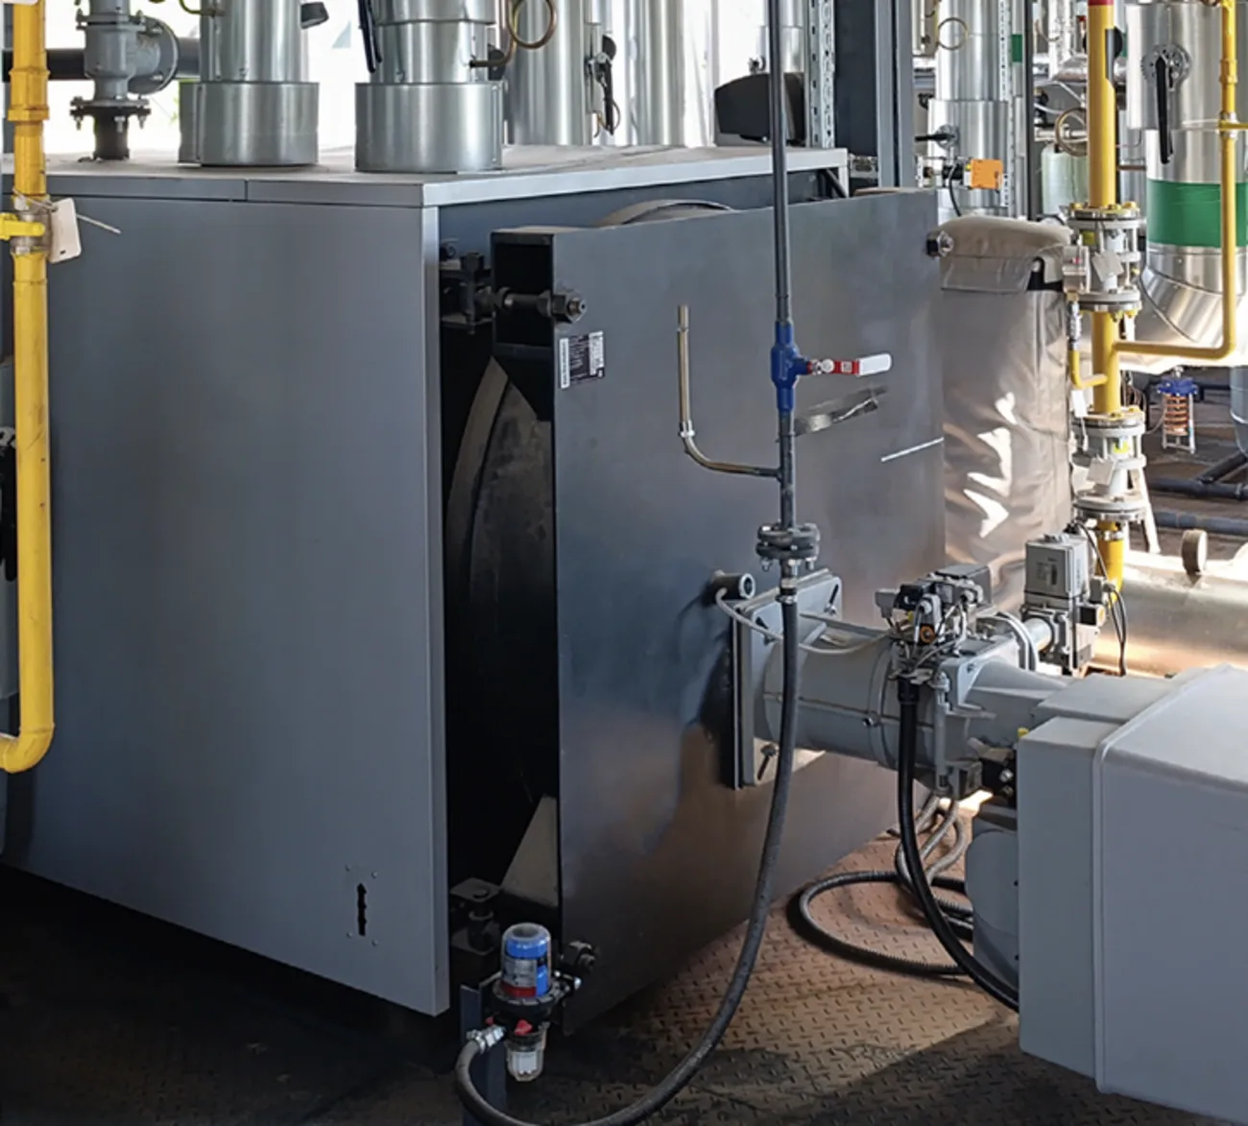
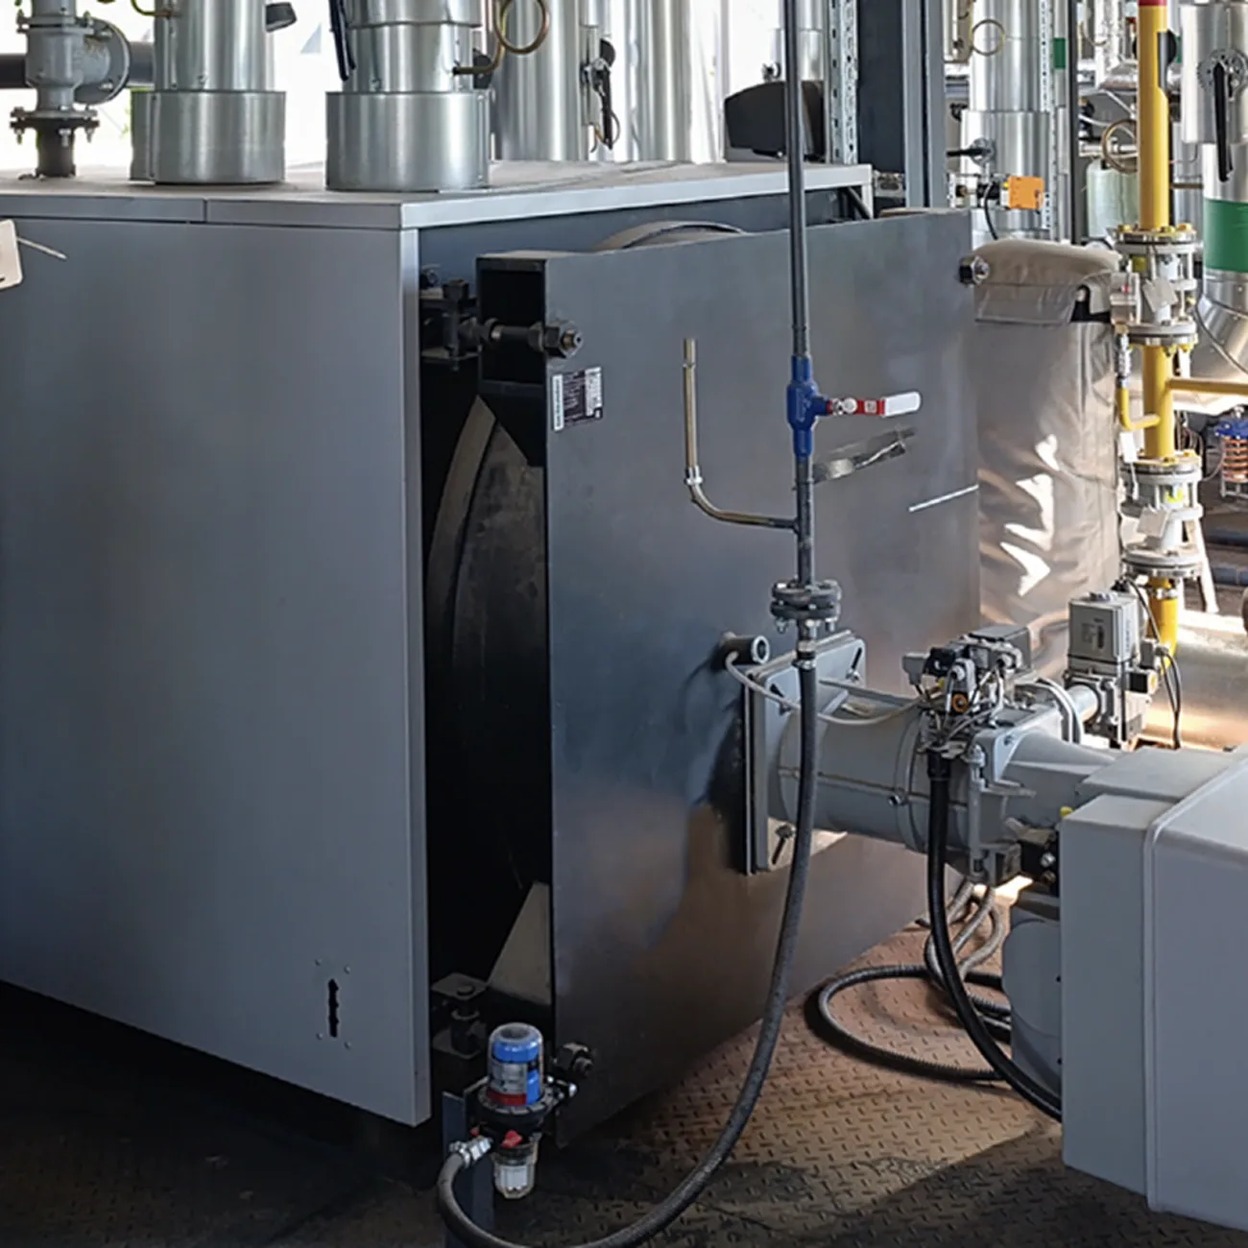
Portfolio - D: пересобрать под квадратные фото + ТЗ, починить тему хедера
По новому ТЗ (TZ-Portfolio-section.md) и обновлённой Figma:

1) Заменены все 4 фото на новые, уже обрезанные дизайнером в квадрат
   (1000×1000) — старые широкие (2-2.5:1) были причиной прошлого бага
   с тесной обрезкой.

2) Бокс под фото теперь ВСЕГДА строго квадратный (aspect-ratio:1/1 на
   всех брейкпоинтах — было 540px фикс. высота на 768 и flex:1 0 0 на
   1000/1440, "растягивавшие" под широкие исходники). На 1000/1440
   картинка стала shrink-0 (размер по высоте контейнера), а текстовая
   панель — наоборот, была фикс. ширины (440/600px), теперь flex:1 0 0
   (забирает всё, что осталось после квадратной картинки).

3) max-width текстового блока — свой на каждый слайд И каждый
   брейкпоинт (таблица из ТЗ), реализовано модификатором
   .portfolio-d__text-wrap.is-slide-0..3, который portfolio-text.js
   переключает синхронно с текстом при смене слайда.

4) Новые тексты описаний (короче, с новой расстановкой &nbspcp;) и
   сокращённые заголовки слайдов 2/4 по ТЗ.

5) Снят больше не нужный object-position-хак под старые широкие фото.

Отдельный баг (пользователь: "не всегда срабатывает тема хедера на
/services/") — header-home-theme.js отслеживал секции через жёсткий
список селекторов, в который не попали .stages-l и .portfolio-d:
Stages-L (светлая) наследовала тёмную тему от предыдущего Divider на
весь скролл секции. Добавлены оба класса в список кандидатов.

CSS/JS файлы, которые уже могли быть у пользователя в кеше
[…]

diff --git a/src/css/style.5.css b/src/css/style.5.css
@@ -7771,9 +7771,7 @@ body.body--header-overlay {
    не 1-3 как у Gallery-L/Projects-L; откуда кастомное событие
    gallery:change; почему тексты слайдов не JSON, а скрытые data-ноды)
    — см. большой комментарий в portfolio-d.njk. Тут — только сами
-   размеры/паддинги/Stroke по брейкпоинтам (пользователь отдельно
-   предупредил, что их много и они разные — сверено по всем 5 через
-   get_design_context, дважды перепроверено).
+   размеры/паддинги/Stroke по брейкпоинтам.
 
    Цвета — БЕЗ локальных --text-primary/--border-primary и т.д., в
    отличие от "-L" секций: глобальный дефолт в :root УЖЕ тёмная тема
@@ -7781,17 +7779,26 @@ body.body--header-overlay {
    нужно здесь, override не нужен, тот же приём, что у .brands/.cta.
 
    Layout: 320/390/768 — Container СТОЛБИКОМ (Title/badge → картинка →
-   Title/text + кнопки), 1000/1440 — Container В РЯД (текстовая
-   панель слева фикс. ширины, картинка справа). Разметка ОДНА и та же
-   на все брейкпоинты (.portfolio-d__panel оборачивает Title/badge +
-   Text/buttons) — на 320-768px .panel: display:contents (сам
+   Title/text + кнопки), 1000/1440 — Container В РЯД. Разметка ОДНА и
+   та же на все брейкпоинты (.portfolio-d__panel оборачивает Title/badge
+   + Text/buttons) — на 320-768px .panel: display:contents (сам
    "пропадает" из потока, его дети становятся ПРЯМЫМИ flex-элементами
    .portfolio-d__container наравне с картинкой — порядок между ними
    задаём через CSS order, картинка визуально встаёт МЕЖДУ title-badge
    и text-buttons, как в Figma), с 1000px .panel — обычный flex-col
-   блок фиксированной ширины (order внутри него уже не имеет
-   значения — там всего 2 ребёнка, картинка вообще другой
-   flex-элемент контейнера). */
+   блок.
+
+   14.08, дизайн переработан под квадратные фото (см. подробности в
+   portfolio-d.njk): картинка (.portfolio-d__media) теперь ВСЕГДА
+   aspect-ratio:1/1 (была фикс. высота 540px на 768 и flex:1 0 0 на
+   1000/1440, растягивавшие широкие исходники "в заливку" — с
+   квадратными фото это больше не нужно). На 1000/1440 картинка стала
+   shrink-0 (размер только по высоте контейнера, квадрат), а текстовая
+   панель (.portfolio-d__panel) — наоборот, была фикс. ширины
+   (440/600px), стала flex:1 0 0 (забирает всё, что осталось от
+   ширины после квадратной картинки) — max-width текста внутри
+   компенсирует разную ширину у каждого слайда (см.
+   .portfolio-d__text-wrap.is-slide-N ниже). */
 .portfolio-d {
   width: 100%;
   background-color: var(--background-primary);
@@ -7817,13 +7824,13 @@ body.body--header-overlay {
 
 @media (min-width: 1000px) {
   .portfolio-d {
-    height: 600px;
+    height: 560px;
   }
 }
 
 @media (min-width: 1440px) {
   .portfolio-d {
-    height: 720px;
+    height: 700px;
   }
 }
 
@@ -7846,7 +7853,7 @@ body.body--header-overlay {
     flex: 1 0 0;
     min-height: 0;
     flex-direction: row;
-    align-items: stretch;
+    align-items: center;
   }
 }
 
@@ -7859,8 +7866,8 @@ body.body--header-overlay {
     display: flex;
     flex-direction: column;
     justify-content: space-between;
-    flex-shrink: 0;
-    width: 440px;
+    flex: 1 0 0;
+    min-width: 0;
     height: 100%;
     padding: var(--spacing-10xl) var(--spacing-6xl) var(--spacing-6xl);
   }
@@ -7868,7 +7875,6 @@ body.body--header-overlay {
 
 @media (min-width: 1440px) {
   .portfolio-d__panel {
-    width: 600px;
     padding: var(--spacing-10xl) var(--spacing-7xl) var(--spacing-7xl);
   }
 }
@@ -7953,8 +7959,6 @@ body.body--header-overlay {
 
 @media (min-width: 768px) {
   .portfolio-d__media {
-    aspect-ratio: auto;
-    height: 540px;
     padding: var(--spacing-4xl);
   }
 }
@@ -7964,7 +7968,7 @@ body.body--header-overlay {
     order: 0;
     width: auto;
     height: 100%;
-    flex: 1 0 0;
+    flex: 0 0 auto;
     border-top: none;
     border-bottom: none;
     border-left: 1px solid var(--border-primary);
@@ -8018,33 +8022,6 @@ body.body--header-overlay {
   pointer-events: none;
 }
 
-/* 13.08, багфикс (пользователь: "фото слиплись", повторно после
-   фиксов #1/#2 контейнера/текста) — бокс под фото по макету почти
-   квадратный (~1.1:1 на 1440px, 0.85:1 на 1000px), исходники широкие
-   (2-2.5:1) — при cover в такой бокс обрезается ~50-60% ширины кадра
-   (эффект зума), это математически неизбежно при заполнении именно
-   такого бокса. Пользователь подтвердил: бокс не менять (по макету),
-   фото должно fill — единственный рычаг — object-position (какую
-   часть широкого кадра показывать вместо слепого центра). Подобрано
-   под каждое фото отдельно: 1 — левее центра (2 первых котла Viessmann
-   с читаемыми табличками, а не стык с чёрными настенными узлами
-   справа), 2 — чуть левее центра (оба настенных котла целиком, не
-   упираясь в чёрный коллектор справа), 3 — почти квадратное само по
-   себе (1.1:1), правки не требует, 4 — правее центра (насосная группа
-   Wilo с манометрами — сам предмет подписи "Индивидуальный жилой
-   дом", а не пустая стена слева). */
-.portfolio-d__slide--1 img {
-  object-position: 30% center;
-}
-
-.portfolio-d__slide--2 img {
-  object-position: 42% center;
-}
-
-.portfolio-d__slide--4 img {
-  object-position: 62% center;
-}
-
 .portfolio-d__text-buttons {
   order: 3;
   display: flex;
@@ -8092,7 +8069,6 @@ body.body--header-overlay {
   align-items: flex-start;
   gap: 4px;
   width: 100%;
-  max-width: 310px;
   opacity: 1;
   transform: translateY(0);
   transition: opacity 0.26s ease, transform 0.26s ease;
@@ -8136,9 +8112,73 @@ body.body--header-overlay {
   }
 }
 
+/* 14.08, ТЗ дизайнера: max-width СВОЙ на каждый слайд и каждый
+   брейкпоинт (не общий на всю карусель) — иначе описание переносится
+   на разное число строк у разных слайдов и высота секции "прыгает"
+   при пролистывании (см. подробности и таблицу в portfolio-d.njk).
+   is-slide-0..3 переключает portfolio-text.3.js синхронно с текстом
+   (см. сам скрипт) — на 0-й слайд класс уже проставлен в разметке для
+   no-JS/SSR. 320 и 390 у всех 4 слайдов совпадают (общий базовый
+   блок ниже), 768/1000/1440 — свои переопределения; на 1000 значения
+   СОВПАДАЮТ с базовыми (320/390), но правило всё равно повторено
+   явно — иначе оно бы просто отсутствовало и унаследовалось от 768,
+   что тоже сработало бы, но лишний implicit-inherit менее очевиден
+   при будущих правках, чем явное число из таблицы ТЗ. */
+.portfolio-d__text-wrap.is-slide-0 {
+  max-width: 230px;
+}
+
+.portfolio-d__text-wrap.is-slide-1 {
+  max-width: 270px;
+}
+
+.portfolio-d__text-wrap.is-slide-2,
+.portfolio-d__text-wrap.is-slide-3 {
+  max-width: 270px;
+}
+
+@media (min-width: 768px) {
+  .portfolio-d__text-wrap.is-slide-0 {
+    max-width: 370px;
+  }
+
+  .portfolio-d__text-wrap.is-slide-1 {
+    max-width: 380px;
+  }
+
+  .portfolio-d__text-wrap.is-slide-2,
+  .portfolio-d__text-wrap.is-slide-3 {
+    max-width: 360px;
+  }
+}
+
+@media (min-width: 1000px) {
+  .portfolio-d__text-wrap.is-slide-0 {
+    max-width: 230px;
+  }
+
+  .portfolio-d__text-wrap.is-slide-1 {
+    max-width: 270px;
+  }
+
+  .portfolio-d__text-wrap.is-slide-2,
+  .portfolio-d__text-wrap.is-slide-3 {
+    max-width: 270px;
+  }
+}
+
 @media (min-width: 1440px) {
-  .portfolio-d__text-wrap {
-    max-width: 440px;
+  .portfolio-d__text-wrap.is-slide-0 {
+    max-width: 340px;
+  }
+
+  .portfolio-d__text-wrap.is-slide-1 {
+    max-width: 380px;
+  }
+
+  .portfolio-d__text-wrap.is-slide-2,
+  .portfolio-d__text-wrap.is-slide-3 {
+    max-width: 370px;
   }
 }
 

diff --git a/src/js/header-home-theme.2.js b/src/js/header-home-theme.2.js
@@ -1,4 +1,12 @@
-/* Переключение темы нового Header на /home/ (04.08).
+/* 14.08: файл переименован header-home-theme.js → header-home-theme.2.js
+ * — багфикс ниже (.stages-l/.portfolio-d не входили в список
+ * отслеживаемых секций, см. комментарий у candidates) правился в
+ * файле, который уже несколько часов активно отдавался пользователю
+ * (грузится безусловно на каждой странице) и рисковал зависшим кешем
+ * GitHub Pages/Fastly — тот же приём, что у style.N.css/gallery.N.js,
+ * см. подробности в комментарии у <link rel="stylesheet"> в base.njk.
+ *
+ * Переключение темы нового Header на /home/ (04.08).
  *
  * Изначально (первая версия скрипта) отслеживалась только одна
  * граница — Hero/Social. Пользователь уточнил: так до самого конца
@@ -141,8 +149,17 @@
      секция Hero - L (см. hero-l.njk), первая на /about/ (node
      1130:9467) и, по словам пользователя, дальше появится на
      /services/ с тем же классом. */
+  /* 14.08, багфикс (пользователь: "не всегда срабатывает нужная тема
+     хедера на /services/") — .stages-l (светлая) и .portfolio-d
+     (тёмная) не входили в список кандидатов вообще, из-за чего
+     алгоритм ниже их просто "не видел": тема на время скролла внутри
+     этих секций наследовалась от ближайшего ПРЕДЫДУЩЕГО отслеживаемого
+     элемента — соседнего Divider. Для Stages-L это означало тёмный
+     хедер (унаследованный от тёмного Divider перед ней) на ВЕСЬ скролл
+     секции, хотя сама секция светлая — нечитаемый хедер поверх белого
+     фона. Добавлены оба класса в список и в ветвление темы ниже. */
   var candidates = document.querySelectorAll(
-    '.social, .stats, .divider, .areas, .testimonial, .services, .projects, .brands, .cta, .site-footer, .contact, .form, .hero-l'
+    '.social, .stats, .divider, .areas, .testimonial, .services, .projects, .brands, .cta, .site-footer, .contact, .form, .hero-l, .stages-l, .portfolio-d'
   );
   if (!candidates.length) return;
 
@@ -167,11 +184,12 @@
       el.classList.contains('projects') ||
       el.classList.contains('contact') ||
       el.classList.contains('form') ||
-      el.classList.contains('hero-l')
+      el.classList.contains('hero-l') ||
+      el.classList.contains('stages-l')
     ) {
       theme = 'light';
     } else {
-      /* .testimonial, .brands, .cta, .site-footer */
+      /* .testimonial, .brands, .cta, .site-footer, .portfolio-d */
       theme = 'dark';
     }
     return { el: el, theme: theme };

diff --git a/src/js/portfolio-text.3.js b/src/js/portfolio-text.3.js
@@ -11,7 +11,7 @@
  * Анимация — по просьбе пользователя "слегка растворяется по
  * вертикали", как секция Signals на attio.com: класс is-swapping
  * переводит блок в opacity:0 + сдвиг по Y (CSS transition, см.
- * .portfolio-d__text-wrap в style.2.css), через SWAP_DELAY_MS (должно
+ * .portfolio-d__text-wrap в style.5.css), через SWAP_DELAY_MS (должно
  * совпадать с длительностью CSS-transition) подменяем textContent и
  * снимаем класс — блок тем же transition возвращается в opacity:1 и
  * исходное положение. Один и тот же элемент используется для fade-out
@@ -32,9 +32,24 @@
  * null, скрипт тихо делал return ДО addEventListener, слушатель вообще
  * не вешался. root.closest('.portfolio-d') поднимается до самой секции
  * целиком — гарантированно накрывает и text-wrap (внутри контейнера),
- * и text-data (вне его), независимо от точной вложенности разметки. */
+ * и text-data (вне его), независимо от точной вложенности разметки.
+ *
+ * 14.08, ТЗ дизайнера: max-width у .portfolio-d__text-wrap теперь
+ * СВОЙ на каждый слайд и каждый брейкпоинт (см. таблицу в
+ * portfolio-d.njk/style.5.css) — реализовано модификатором
+ * is-slide-0..3 на том же wrap, что и текст. Переключаем его ЗДЕСЬ ЖЕ,
+ * в момент подмены textContent (когда блок уже невидим, opacity:0
+ * посередине fade) — если поменять класс раньше (одновременно с
+ * is-swapping), старый текст на миг переносился бы под новую ширину
+ * ДО того, как сам fade скроет несоответствие. */
 (function () {
   var SWAP_DELAY_MS = 260; /* должно совпадать с transition-duration в CSS */
+  var SLIDE_CLASS_RE = /\bis-slide-\d+\b/g;
+
+  function setSlideClass(el, index) {
+    el.className = el.className.replace(SLIDE_CLASS_RE, '').trim();
+    el.classList.add('is-slide-' + index);
+  }
 
   var roots = document.querySelectorAll('[data-gallery]');
   Array.prototype.forEach.call(roots, function (root) {
@@ -69,6 +84,7 @@
       if (reduceMotion) {
         titleEl.textContent = data.title;
         descEl.textContent = data.desc;
+        setSlideClass(wrap, e.detail.index);
         return;
       }
 
@@ -77,6 +93,7 @@
       pending = setTimeout(function () {
         titleEl.textContent = data.title;
         descEl.textContent = data.desc;
+        setSlideClass(wrap, e.detail.index);
         wrap.classList.remove('is-swapping');
         pending = null;
       }, SWAP_DELAY_MS);
